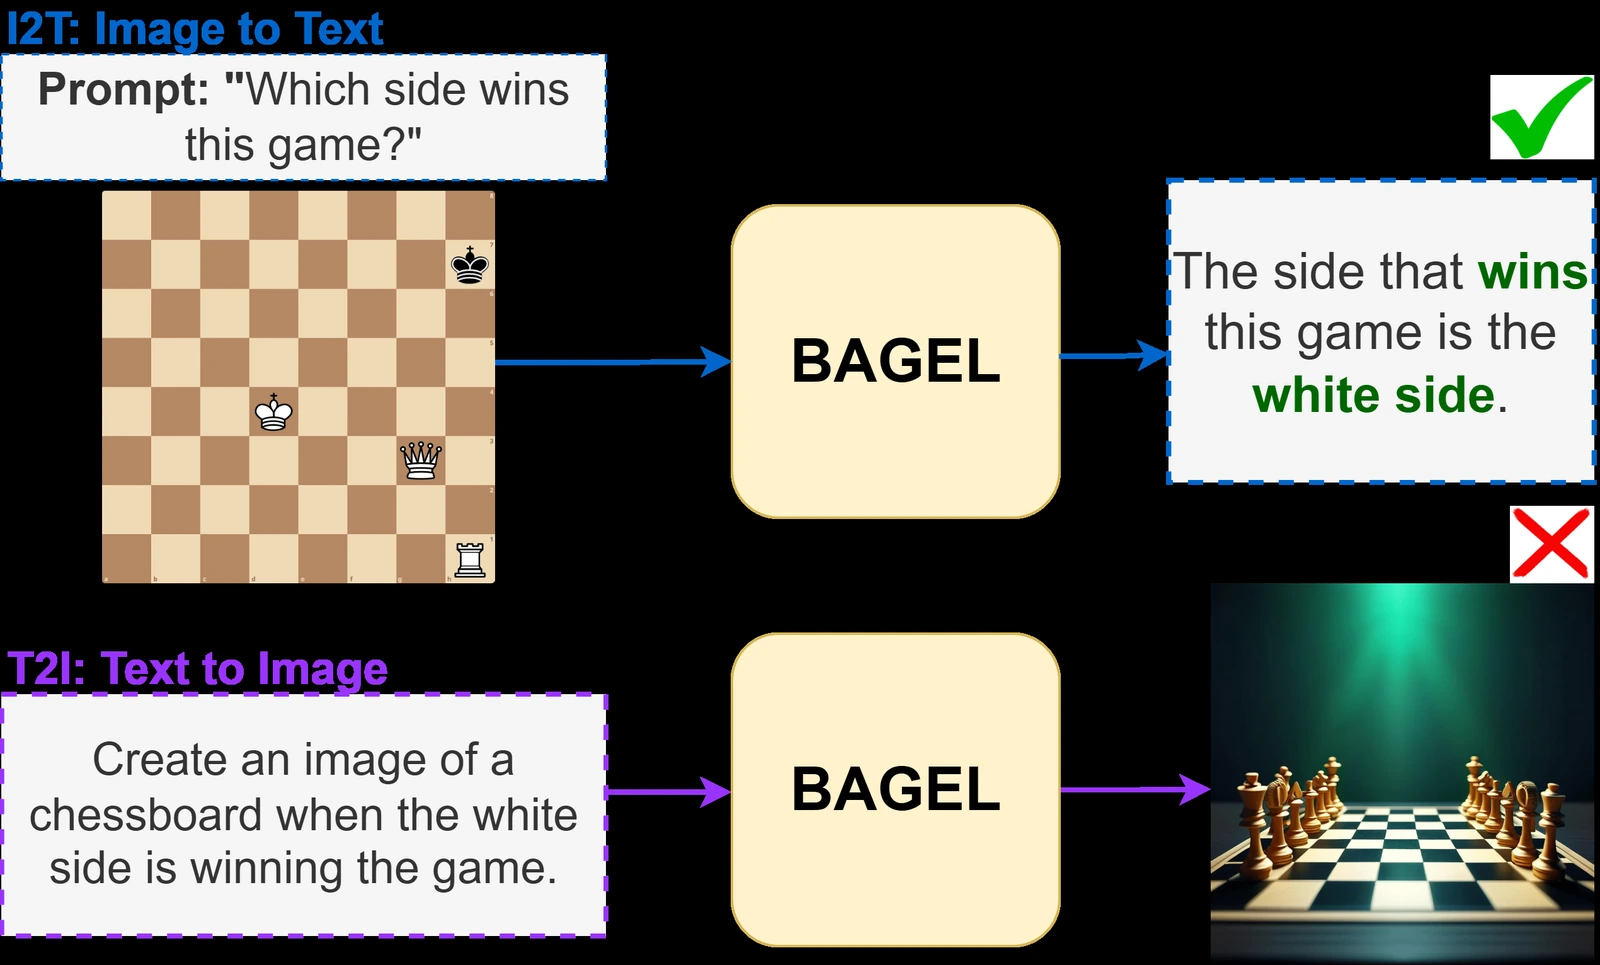
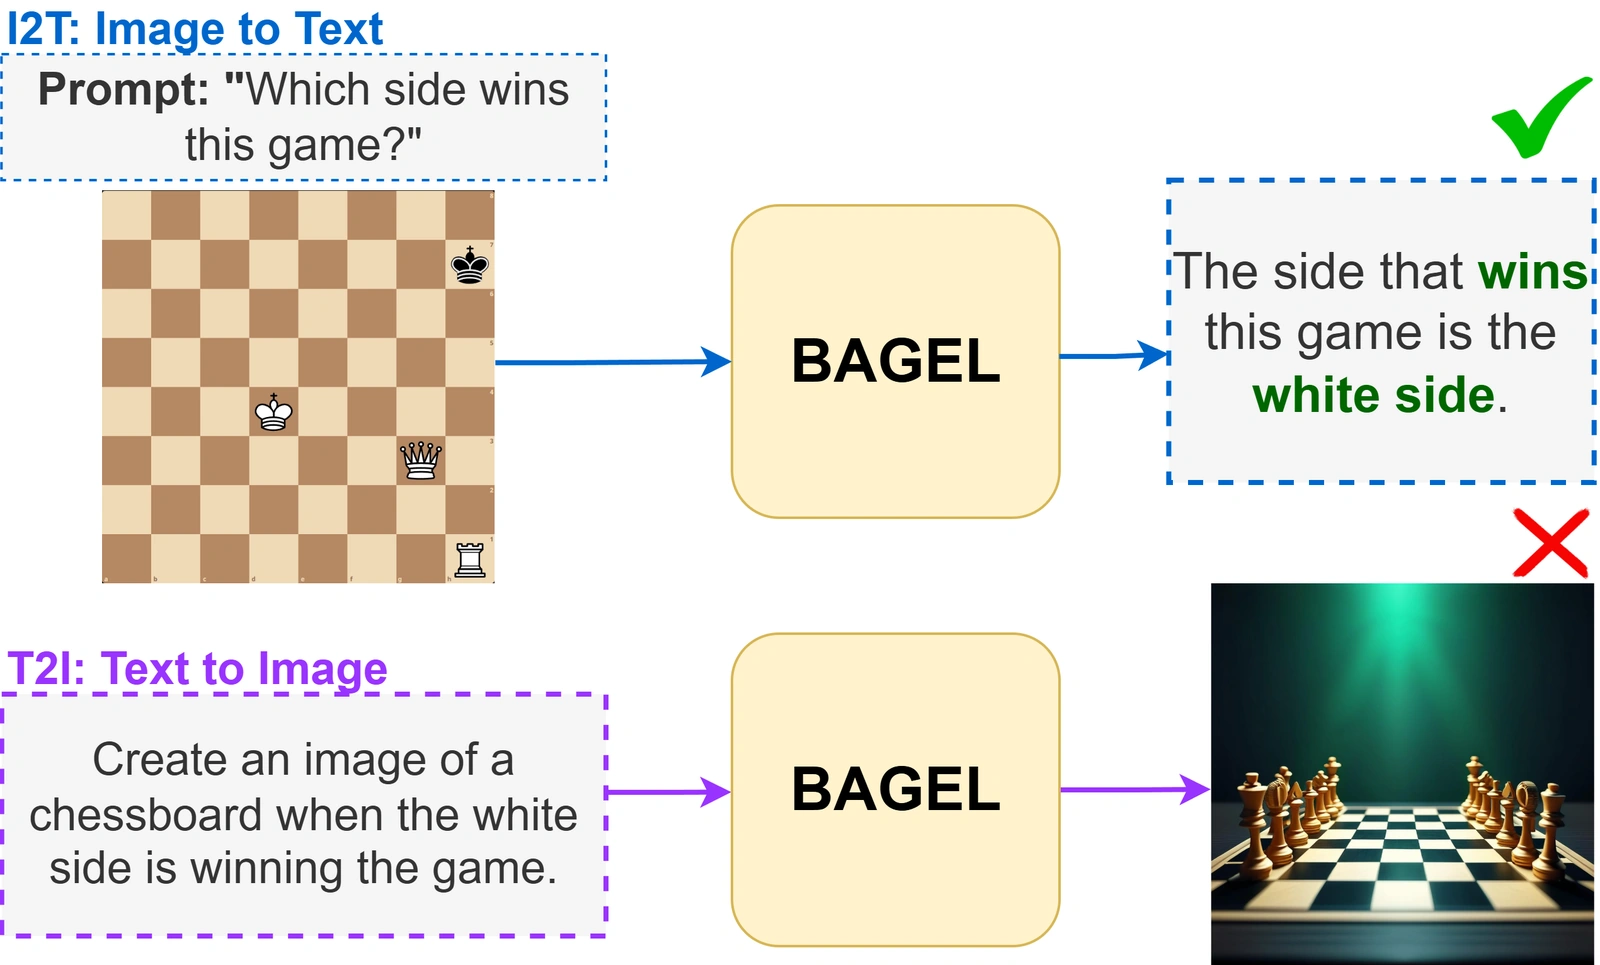
Fix layout

diff --git a/projects/telephone-game/index.html b/projects/telephone-game/index.html
@@ -22,7 +22,7 @@
   <nav class="project-nav" aria-label="Project navigation">
     <a class="nav-brand" href="#top">The Telephone Game<span class="nav-dot" aria-hidden="true"></span></a>
     <div class="nav-links">
-      <a href="#overview">Overview</a><a href="#method">Protocol</a><a href="#findings">Examples</a><a href="#results">Results</a><a href="#human-evaluation">Human study</a><a href="#presentation">Video &amp; poster</a><a href="#citation">Citation</a>
+      <a href="#overview">Overview</a><a href="#presentation">Video &amp; poster</a><a href="#method">Protocol</a><a href="#findings">Examples</a><a href="#results">Results</a><a href="#human-evaluation">Human study</a><a href="#citation">Citation</a>
     </div>
   </nav>
 
@@ -55,13 +55,24 @@
         <a href="figure.html?image=teaser" target="_blank" rel="noopener" aria-label="Open the Telephone Game example at full size"><img width="2400" height="573" src="../../static/telephone-game/figures/teaser.webp" alt="A unified model alternates text and image generation from a suitcase and a banana. The suitcase disappears after generation five, while the banana count grows to fourteen." fetchpriority="high"></a>
         <figcaption>The chain begins with <strong>“a suitcase left of a banana.”</strong> As the model alternates between generating images and describing them, the suitcase disappears and one banana becomes fourteen—revealing how meaning drifts across generations.</figcaption>
       </figure>
-      <dl class="benchmark-stats" aria-label="Benchmark at a glance">
-        <div><dt>7</dt><dd>systems in the full comparison</dd></div><div><dt>400</dt><dd>image–text pairs · NoCaps + DOCCI</dd></div><div><dt>20</dt><dd>generations in the evaluation horizon</dd></div><div><dt>6</dt><dd>recurring semantic failure modes</dd></div>
-      </dl>
       <div class="evaluation-gap"><h3>What a single pass misses</h3><ul class="compact-list"><li><strong>Generation benchmarks</strong> assess realism or prompt compliance in one image.</li><li><strong>Understanding benchmarks</strong> assess how well a model interprets an image.</li><li><strong>Cyclic evaluation</strong> tests whether the same model preserves meaning when these capabilities are composed.</li></ul></div>
-      <div class="consistency-callout"><figure><a href="figure.html?image=cross-consistency" target="_blank" rel="noopener" aria-label="Open the chess cross-consistency example at full size"><img width="1600" height="965" src="../../static/telephone-game/figures/cross-consistency.webp" alt="BAGEL identifies a winning chess position for white, but generates a generic board when asked to depict white winning." loading="lazy"></a></figure><div><p class="eyebrow">The gap in one example</p><h3>Understanding a concept does not guarantee faithful generation.</h3><p>BAGEL correctly identifies a winning chess position, yet generates a generic board when asked to depict the same concept. This mismatch is <strong>cross-inconsistency</strong>.</p></div></div>
+      <div class="consistency-callout"><figure><a href="figure.html?image=cross-consistency" target="_blank" rel="noopener" aria-label="Open the chess cross-consistency example at full size"><img width="1600" height="965" src="../../static/telephone-game/figures/cross-consistency.webp?v=white-2" alt="BAGEL identifies a winning chess position for white, but generates a generic board when asked to depict white winning." loading="lazy"></a></figure><div><p class="eyebrow">The gap in one example</p><h3>Understanding a concept does not guarantee faithful generation.</h3><p>BAGEL correctly identifies a winning chess position, yet generates a generic board when asked to depict the same concept. This mismatch is <strong>cross-inconsistency</strong>.</p></div></div>
     </section>
 
+
+    <section id="presentation" aria-labelledby="presentation-heading">
+      <div class="section-heading"><p class="eyebrow">Watch &amp; explore</p><h2 id="presentation-heading">The presentation and poster.</h2></div>
+      <div class="presentation-grid">
+        <article class="video-card">
+          <video controls playsinline preload="none" poster="../../static/telephone-game/video-preview.webp" aria-label="The Telephone Game research presentation" aria-describedby="video-description"><source src="../../static/telephone-game/video.mp4" type="video/mp4">Your browser does not support embedded video. <a href="../../static/telephone-game/video.mp4">Download the presentation.</a></video>
+          <div class="media-caption"><div><h3>Video presentation <span class="duration">11:22</span></h3><p id="video-description">The motivation, protocol, and findings behind the Telephone Game.</p></div><a href="../../static/telephone-game/video.mp4" download>Download MP4 <span aria-hidden="true">↓</span></a></div>
+        </article>
+        <article class="poster-card">
+          <a class="poster-preview" href="../../static/telephone-game/poster.pdf" target="_blank" rel="noopener" aria-label="View the full Telephone Game poster PDF"><img width="1600" height="1143" src="../../static/telephone-game/poster-preview.webp" alt="Preview of the Telephone Game research poster with the evaluation protocol, semantic drift examples, and model results." loading="lazy"></a>
+          <div class="media-caption"><div><h3>Conference poster</h3><p>A visual overview of the work.</p></div><a href="../../static/telephone-game/poster.pdf" target="_blank" rel="noopener">View PDF <span aria-hidden="true">↗</span></a></div>
+        </article>
+      </div>
+    </section>
 
     <section id="method" aria-labelledby="method-heading">
       <div class="section-heading"><p class="eyebrow">02 / The protocol</p><h2 id="method-heading">Follow the meaning through the whole chain.</h2><p class="section-intro">The Semantic Drift Protocol (SDP) starts with a caption or an image, then alternates text-to-image (T2I) and image-to-text (I2T). Each output becomes the next input; fidelity is always measured against the original.</p></div>
@@ -69,7 +80,7 @@
         <div class="chain-card"><h3>Text-first chain</h3><p class="chain"><span class="text-node">Text</span><span aria-hidden="true">→</span><span class="image-node">Image</span><span aria-hidden="true">→</span><span class="text-node">Text</span><span aria-hidden="true">→ …</span></p><p>Does the original description survive?</p></div>
         <div class="chain-card"><h3>Image-first chain</h3><p class="chain"><span class="image-node">Image</span><span aria-hidden="true">→</span><span class="text-node">Text</span><span aria-hidden="true">→</span><span class="image-node">Image</span><span aria-hidden="true">→ …</span></p><p>Does the original scene survive?</p></div>
       </div>
-      <figure class="figure-card protocol-figure"><a href="figure.html?image=protocol" target="_blank" rel="noopener" aria-label="Open the evaluation protocol figure at full size"><img width="2200" height="2239" src="../../static/telephone-game/figures/protocol.webp" alt="Text-first and image-first chains, with comparisons back to the original input. A red truck changes identity and position, while an image of a group gains people and new objects." loading="lazy"></a><figcaption>Text-first and image-first chains expose changes that a plausible individual output can hide. Comparisons to the original input track retention within and across modalities.</figcaption></figure>
+      <figure class="figure-card protocol-figure"><a href="figure.html?image=protocol" target="_blank" rel="noopener" aria-label="Open the evaluation protocol figure at full size"><img width="2200" height="2239" src="../../static/telephone-game/figures/protocol.webp?v=white-2" alt="Text-first and image-first chains, with comparisons back to the original input. A red truck changes identity and position, while an image of a group gains people and new objects." loading="lazy"></a><figcaption>Text-first and image-first chains expose changes that a plausible individual output can hide. Comparisons to the original input track retention within and across modalities.</figcaption></figure>
       <div class="subsection-heading"><h3>Two complementary views of semantic retention</h3><p>Embedding similarity captures the scene’s overall meaning; object-level evaluation checks its specific constraints.</p></div>
       <div class="metric-grid">
         <article class="metric-card"><p class="metric-label">MCD <span>↑ Higher is better</span></p><h3>Mean Cumulative Drift</h3><p>Average semantic similarity across generations and four modality mappings.</p><ul class="compact-list"><li><strong>MPNet</strong> for text ↔ text</li><li><strong>DINO</strong> for image ↔ image</li><li><strong>CLIP</strong> for cross-modal similarity</li></ul><p class="metric-note">Despite the name, a higher MCD score means stronger retention and less drift.</p></article>
@@ -127,19 +138,6 @@
       <details class="figure-details robustness-details"><summary>Checks beyond the main benchmark <span aria-hidden="true">+</span></summary><ul class="compact-list"><li><strong>Representation checks:</strong> alternative embedding backbones preserve the main trends.</li><li><strong>Prompt sensitivity:</strong> different recaptioning prompts retain the relative conclusions for BAGEL, Show-o, and VILA-U.</li><li><strong>Detector audit:</strong> OWLv2 achieves 81.0% agreement with human judgments; agreement remains similar at early and late generations.</li><li><strong>Additional models:</strong> Emu3 and proprietary systems are evaluated on smaller diagnostic subsets, separately from the full benchmark ranking.</li></ul></details>
     </section>
 
-    <section id="presentation" aria-labelledby="presentation-heading">
-      <div class="section-heading"><p class="eyebrow">Watch &amp; explore</p><h2 id="presentation-heading">The presentation and poster.</h2></div>
-      <div class="presentation-grid">
-        <article class="video-card">
-          <video controls playsinline preload="none" poster="../../static/telephone-game/video-preview.webp" aria-label="The Telephone Game research presentation" aria-describedby="video-description"><source src="../../static/telephone-game/video.mp4" type="video/mp4">Your browser does not support embedded video. <a href="../../static/telephone-game/video.mp4">Download the presentation.</a></video>
-          <div class="media-caption"><div><h3>Video presentation <span class="duration">11:22</span></h3><p id="video-description">The motivation, protocol, and findings behind the Telephone Game.</p></div><a href="../../static/telephone-game/video.mp4" download>Download MP4 <span aria-hidden="true">↓</span></a></div>
-        </article>
-        <article class="poster-card">
-          <a class="poster-preview" href="../../static/telephone-game/poster.pdf" target="_blank" rel="noopener" aria-label="View the full Telephone Game poster PDF"><img width="1600" height="1143" src="../../static/telephone-game/poster-preview.webp" alt="Preview of the Telephone Game research poster with the evaluation protocol, semantic drift examples, and model results." loading="lazy"></a>
-          <div class="media-caption"><div><h3>Conference poster</h3><p>A visual overview of the work.</p></div><a href="../../static/telephone-game/poster.pdf" target="_blank" rel="noopener">View PDF <span aria-hidden="true">↗</span></a></div>
-        </article>
-      </div>
-    </section>
 
     <section id="citation" aria-labelledby="citation-heading">
       <div class="section-heading citation-heading"><div><p class="eyebrow">Use this work</p><h2 id="citation-heading">Citation</h2></div><button class="button copy-button" type="button" id="copy-citation" hidden>Copy BibTeX</button></div>

diff --git a/projects/telephone-game/style.css b/projects/telephone-game/style.css
@@ -81,11 +81,6 @@ figcaption strong { color: #475467; font-weight: 650; }
 .subsection-heading { margin: 2.5rem 0 1.35rem; }
 .subsection-heading h3 { font-size: clamp(1.2rem, 2.5vw, 1.55rem); letter-spacing: -.035em; }
 .subsection-heading > p:not(.eyebrow) { max-width: 760px; margin-top: .65rem; color: var(--muted); font-size: .93rem; }
-.benchmark-stats { display: grid; grid-template-columns: repeat(4, minmax(0, 1fr)); margin-top: 2rem; padding: 1.5rem 0 0; }
-.benchmark-stats div { padding: 0 1.1rem; border-left: 1px solid var(--line); text-align: center; }
-.benchmark-stats div:first-child { border-left: none; }
-.benchmark-stats dt { font-size: 2rem; font-weight: 740; letter-spacing: -.04em; line-height: 1.2; }
-.benchmark-stats dd { max-width: 185px; margin: .4rem auto 0; color: var(--muted); font-size: .75rem; line-height: 1.5; }
 
 .presentation-grid { display: grid; grid-template-columns: minmax(0, 1.7fr) minmax(0, 1fr); align-items: start; gap: 1.5rem; }
 .video-card, .poster-card { overflow: hidden; border: 1px solid var(--line); border-radius: var(--radius); background: var(--surface); }
@@ -227,10 +222,6 @@ footer p { color: var(--muted); }
   .metric-grid, .chain-grid, .presentation-grid, .plot-grid, .human-stats { grid-template-columns: 1fr; gap: .85rem; }
   .evaluation-gap .compact-list { font-size: .85rem; }
   .subsection-heading > p:not(.eyebrow) { font-size: .87rem; }
-  .benchmark-stats { grid-template-columns: repeat(2, minmax(0, 1fr)); gap: 1.5rem 0; }
-  .benchmark-stats div:nth-child(3) { border-left: none; }
-  .benchmark-stats dt { font-size: 1.75rem; }
-  .benchmark-stats dd { font-size: .72rem; }
   .poster-preview { min-height: 0; }
   .poster-preview img { max-height: none; }
   .media-caption { padding: 1rem; }

diff --git a/projects/telephone-game/figure.js b/projects/telephone-game/figure.js
@@ -79,7 +79,8 @@ if (selected) {
     download.hidden = false;
   }, { once: true });
   picture.addEventListener('error', () => showError('This figure could not be loaded. Return to the project page to try again.'), { once: true });
-  picture.src = '../../static/telephone-game/figures/' + imageKey + '.webp';
+  const assetVersion = ['protocol', 'cross-consistency'].includes(imageKey) ? '?v=white-2' : '';
+  picture.src = '../../static/telephone-game/figures/' + imageKey + '.webp' + assetVersion;
   download.href = picture.src;
   download.download = imageKey + '.webp';
   zoom.addEventListener('click', () => {

diff --git a/projects/telephone-game/figure.html b/projects/telephone-game/figure.html
@@ -8,7 +8,7 @@
   <meta name="robots" content="noindex">
   <title>Figure | The Telephone Game</title>
   <link rel="stylesheet" href="style.css">
-  <script src="figure.js" defer></script>
+  <script src="figure.js?v=white-2" defer></script>
 </head>
 <body class="figure-page">
   <header class="figure-toolbar">
